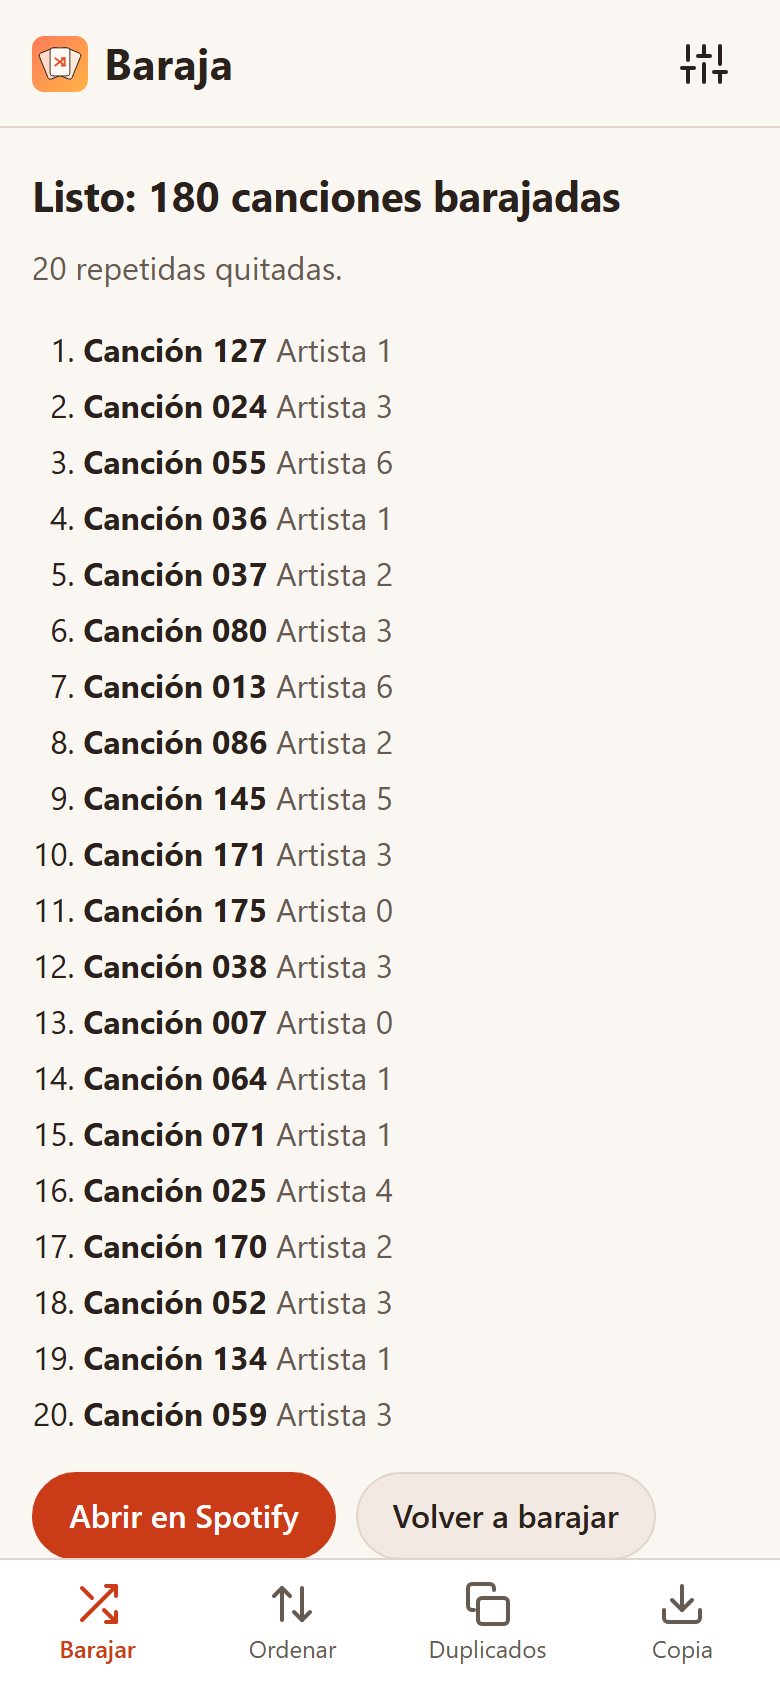
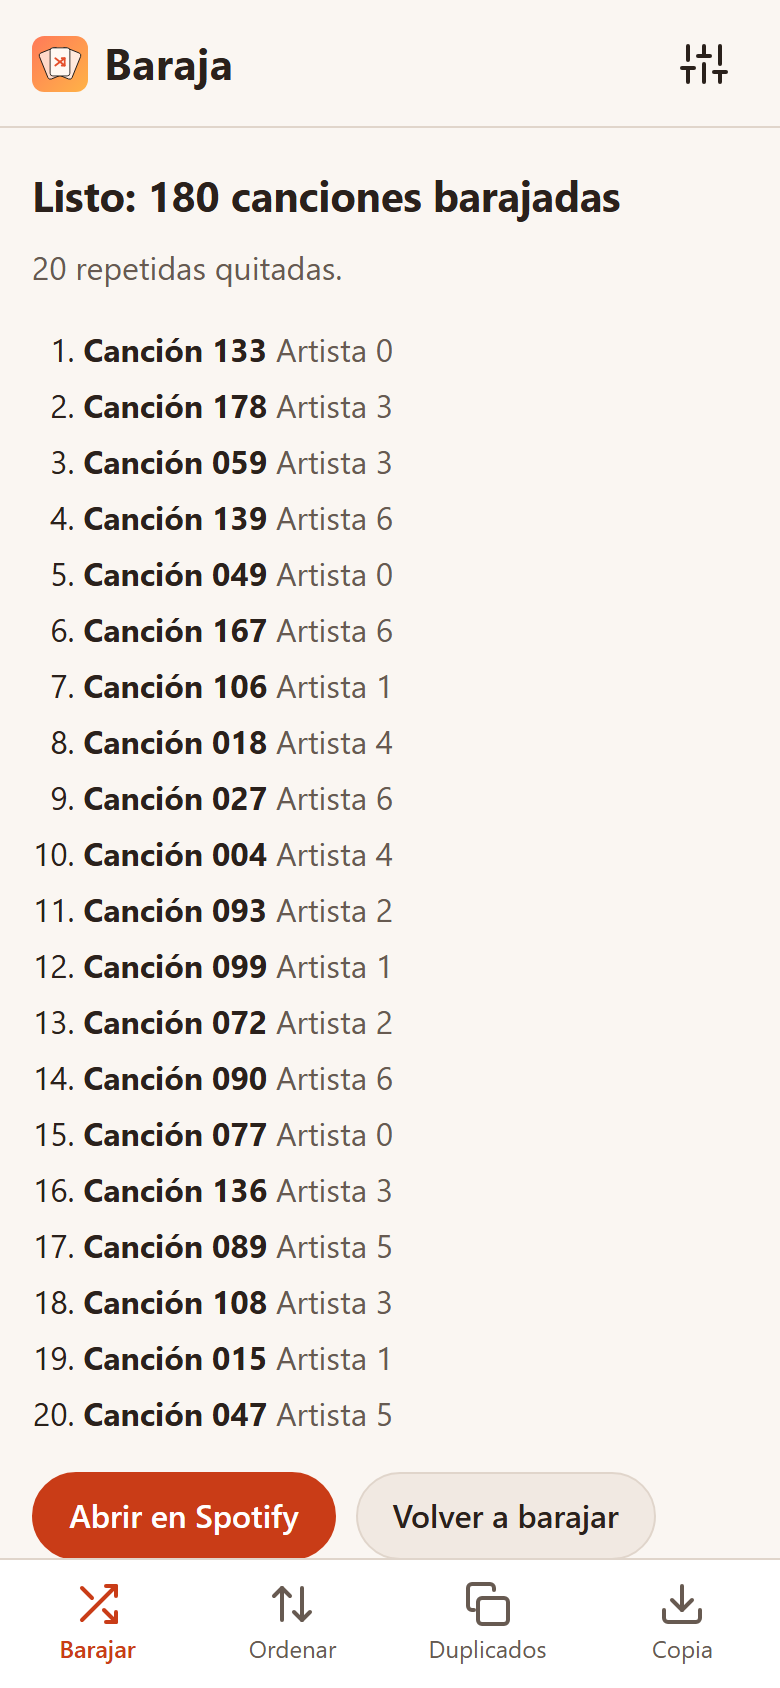
fix: revisión de seguridad ronda 2 (escrituras a medias, Deshacer, importación)
Reintentar tras una escritura a medias pisaba el Deshacer del original y
perdía canciones; ahora el Deshacer queda pendiente hasta que la escritura
termina y se rechaza un nuevo guardado sobre esa playlist. Además: abortar si
localStorage no guarda el Deshacer, comprobar que la playlist no cambió antes
de deshacer o escribir (primera página, no solo el total), límites al importar
(20 MB, URI de 22 caracteres, 200 playlists), no duplicar al reintentar una
restauración y no mostrar sesión caducada si otra pestaña rotó el token.

diff --git a/js/app.js b/js/app.js
@@ -1,6 +1,6 @@
 import {
   LIKED_ID, shuffle, uniqueByUri, capPlaylist, normalizeEntries, normalizePlaylist, sortTracks, SORT_KEYS,
-  filterByAdded, findDuplicates, removeIndexes, buildBackup, toCsv, validateBackup,
+  filterByAdded, findDuplicates, removeIndexes, buildBackup, toCsv, validateBackup, MAX_BACKUP_BYTES,
 } from './core.js';
 import { SpotifyApi, ApiError } from './api.js';
 import * as auth from './auth.js';
@@ -167,13 +167,31 @@ const skippedCount = (s) => s.local + s.empty;
 
 /** Con `soft` no pisa un Deshacer ya guardado (así no se pierde el estado original). */
 function saveUndo(playlistId, name, uris, { soft = false } = {}) {
-  if (soft && getItem(KEYS.undo)) return;
-  setItem(KEYS.undo, { playlistId, name, uris, date: new Date().toISOString() });
+  const prev = getItem(KEYS.undo);
+  if (soft && prev) return;
+  if (prev?.pending && prev.playlistId === playlistId) throw new UserError(t('errPending'));
+  const entry = { playlistId, name, uris, pending: true, date: new Date().toISOString() };
+  if (!setItem(KEYS.undo, entry, { strict: true })) throw new UserError(t('errUndoStorage'));
 }
 
-async function assertUnchanged(playlistId, expectedTotal) {
-  const { total } = await S.api.request('GET', `/playlists/${encodeURIComponent(playlistId)}/items?limit=1`);
-  if (total !== expectedTotal) throw new UserError(t('errChanged'));
+/** Marca el Deshacer como seguro de aplicar: la escritura terminó y la playlist tiene `count` elementos. */
+function finishUndo(playlistId, count) {
+  const u = getItem(KEYS.undo);
+  if (u?.playlistId === playlistId) setItem(KEYS.undo, { ...u, pending: false, after: count });
+}
+
+async function overwritePlaylist(id, uris, status) {
+  await S.api.replaceItems(id, uris, (d, tot) => status.progress('saving', d, tot));
+  finishUndo(id, uris.length);
+}
+
+/** Comprueba el total y la primera página (si se pasa `expected`) antes de escribir con datos leídos antes. */
+async function assertUnchanged(playlistId, expectedTotal, expected) {
+  const page = await S.api.request('GET', `/playlists/${encodeURIComponent(playlistId)}/items?limit=50&additional_types=track,episode`);
+  if (page.total !== expectedTotal) throw new UserError(t('errChanged'));
+  if (!expected || !Array.isArray(page.items)) return;
+  const head = normalizeEntries(page.items).tracks;
+  if (head.some((x, i) => x.uri !== expected[i]?.uri)) throw new UserError(t('errChanged'));
 }
 
 function confirmOverwrite(name, skipped) {
@@ -185,6 +203,7 @@ async function applyUndo(status, expectedId) {
   const u = getItem(KEYS.undo);
   if (!u) return false;
   if (expectedId && u.playlistId !== expectedId) throw new UserError(t('errUndoOther'));
+  if (!u.pending && Number.isInteger(u.after)) await assertUnchanged(u.playlistId, u.after);
   if (!confirm(t('confirmUndo', { name: u.name || u.playlistId, date: new Date(u.date).toLocaleString(getLang()) }))) return false;
   await S.api.replaceItems(u.playlistId, u.uris, (d, tot) => status.progress('saving', d, tot));
   removeItem(KEYS.undo);
@@ -349,7 +368,7 @@ function shufflePanel() {
       if (!base.length) throw new UserError(t('errEmpty'));
       const { tracks: order, truncated } = capPlaylist(shuffle(base));
       const playlistId = await resolveTarget(mode, sel, tracks);
-      await S.api.replaceItems(playlistId, order.map((x) => x.uri), (d, tot) => status.progress('saving', d, tot));
+      await overwritePlaylist(playlistId, order.map((x) => x.uri), status);
       await loadPlaylists();
       status.clear();
       showResult({ base, order, skipped, truncated, dedupRemoved: tracks.length - base.length, playlistId });
@@ -359,9 +378,9 @@ function shufflePanel() {
   function reshuffle() {
     task(status, async () => {
       const { tracks: order, truncated } = capPlaylist(shuffle(last.base));
-      await assertUnchanged(last.playlistId, last.order.length);
+      await assertUnchanged(last.playlistId, last.order.length, last.order);
       saveUndo(last.playlistId, '', last.order.map((x) => x.uri), { soft: true });
-      await S.api.replaceItems(last.playlistId, order.map((x) => x.uri), (d, tot) => status.progress('saving', d, tot));
+      await overwritePlaylist(last.playlistId, order.map((x) => x.uri), status);
       status.clear();
       showResult({ ...last, order, truncated });
     });
@@ -435,7 +454,7 @@ function sortPanel() {
       if (overwrite) {
         saveUndo(sel.id, sel.name, tracks.map((x) => x.uri));
         playlistId = sel.id;
-        await S.api.replaceItems(playlistId, sorted.map((x) => x.uri), (d, tot) => status.progress('saving', d, tot));
+        await overwritePlaylist(playlistId, sorted.map((x) => x.uri), status);
       } else {
         playlistId = (await S.api.createPlaylist(nameIn.value.trim() || sel.name, t('barajaDesc'))).id;
         await S.api.addItems(playlistId, sorted.map((x) => x.uri), (d, tot) => status.progress('saving', d, tot));
@@ -532,10 +551,10 @@ function dupsPanel() {
     function remove() {
       if (!confirmOverwrite(pl.name, skippedCount(skipped))) return;
       task(status, async () => {
-        await assertUnchanged(pl.id, tracks.length + skippedCount(skipped));
+        await assertUnchanged(pl.id, tracks.length + skippedCount(skipped), tracks);
         const remaining = removeIndexes(tracks, chosen());
         saveUndo(pl.id, pl.name, tracks.map((x) => x.uri));
-        await S.api.replaceItems(pl.id, remaining.map((x) => x.uri), (d, tot) => status.progress('saving', d, tot));
+        await overwritePlaylist(pl.id, remaining.map((x) => x.uri), status);
         await loadPlaylists();
         status.clear();
         finishWith(t('dupsRemoved', { n: fmt(tracks.length - remaining.length) }), remaining, pl.id);
@@ -628,10 +647,11 @@ function backupPanel() {
     const file = fileIn.files[0];
     if (!file) return;
     try {
+      if (file.size > MAX_BACKUP_BYTES) throw new UserError(t('errBackupSize'));
       const playlists = validateBackup(JSON.parse(await file.text()));
       showRestore(playlists);
     } catch (e) {
-      status.fail(e instanceof SyntaxError ? new UserError(t('restoreBad_notBackup')) : new UserError(t(`restoreBad_${e.code ?? 'notBackup'}`)));
+      status.fail(e instanceof UserError ? e : e instanceof SyntaxError ? new UserError(t('restoreBad_notBackup')) : new UserError(t(`restoreBad_${e.code ?? 'notBackup'}`)));
     }
   }
 
@@ -657,6 +677,8 @@ function backupPanel() {
           const id = (await S.api.createPlaylist(`${p.name} (${t('restoredSuffix')})`, t('barajaDesc'))).id;
           await S.api.addItems(id, p.tracks.map((x) => x.uri), (d, tot) => status.progress('saving', d, tot));
           n++;
+          box.checked = false;
+          box.disabled = true;
         }
         await loadPlaylists();
         status.clear();

diff --git a/tests/unit/core.test.js b/tests/unit/core.test.js
@@ -1,7 +1,7 @@
 import { test } from 'node:test';
 import assert from 'node:assert/strict';
 import {
-  randomInt, shuffle, chunk, uniqueByUri, capPlaylist, MAX_PLAYLIST, parseReleaseDate, sortTracks, SORT_KEYS,
+  randomInt, shuffle, chunk, uniqueByUri, capPlaylist, MAX_PLAYLIST, MAX_BACKUP_PLAYLISTS,parseReleaseDate, sortTracks, SORT_KEYS,
   filterByAdded, normalizeTitle, findDuplicates, removeIndexes, normalizeEntry, normalizeEntries, normalizePlaylist,
   buildBackup, toCsv, validateBackup,
 } from '../../js/core.js';
@@ -219,19 +219,28 @@ test('normalizePlaylist: items.total y tracks.total, propiedad y colaborativas',
 });
 
 test('backup: construir, validar, CSV y rechazo de archivos malos', () => {
-  const lists = [{ id: 'p', name: 'Mi "lista"', isLiked: false, tracks: [tr({ uri: 'spotify:track:abc', name: '=cmd()', artists: ['A', 'B'] })] }];
+  const ID22 = '4uLU6hMCjMI75M1A2tKUQC';
+  const lists = [{ id: 'p', name: 'Mi "lista"', isLiked: false, tracks: [tr({ uri: `spotify:track:${ID22}`, name: '=cmd()', artists: ['A', 'B'] })] }];
   const b = buildBackup(lists, new Date('2026-01-01T00:00:00Z'));
   assert.equal(b.app, 'baraja');
   assert.equal(b.version, 1);
   assert.equal(b.exportedAt, '2026-01-01T00:00:00.000Z');
   const back = validateBackup(JSON.parse(JSON.stringify(b)));
-  assert.equal(back[0].tracks[0].uri, 'spotify:track:abc');
+  assert.equal(back[0].tracks[0].uri, `spotify:track:${ID22}`);
   const csv = toCsv(lists);
   assert.match(csv, /"Mi ""lista"""/);
   assert.match(csv, /'=cmd\(\)/);
   assert.match(csv, /"A, B"/);
   assert.match(toCsv([{ name: 'p', tracks: [tr({ name: 'x;=1+1' })] }]), /"x;=1\+1"/);
-  assert.throws(() => validateBackup({ app: 'baraja', version: 1, playlists: [{ name: 'x', tracks: Array.from({ length: MAX_PLAYLIST + 1 }, () => ({ uri: 'spotify:track:a' })) }] }), { code: 'tooBig' });
+  assert.throws(() => validateBackup({ app: 'baraja', version: 1, playlists: [{ name: 'x', tracks: Array.from({ length: MAX_PLAYLIST + 1 }, () => ({ uri: `spotify:track:${ID22}` })) }] }), { code: 'tooBig' });
+  const many = Array.from({ length: MAX_BACKUP_PLAYLISTS + 1 }, () => ({ name: 'x', tracks: [] }));
+  assert.throws(() => validateBackup({ app: 'baraja', version: 1, playlists: many }), { code: 'tooBig' });
+  for (const uri of [`spotify:track:${'a'.repeat(1_000_000)}`, 'spotify:track:abc', `spotify:track:${ID22}\n`]) {
+    assert.throws(() => validateBackup({ app: 'baraja', version: 1, playlists: [{ name: 'x', tracks: [{ uri }] }] }), { code: 'badTrack' });
+  }
+  const proto = validateBackup(JSON.parse(`{"app":"baraja","version":1,"playlists":[{"name":"x","__proto__":{"polluted":1},"tracks":[]}]}`));
+  assert.equal(({}).polluted, undefined);
+  assert.equal(proto[0].polluted, undefined);
   for (const bad of [null, {}, { app: 'otra', version: 1, playlists: [] }, { app: 'baraja', version: 1, playlists: 'x' }]) {
     assert.throws(() => validateBackup(bad), { code: 'notBackup' });
   }

diff --git a/js/i18n.js b/js/i18n.js
@@ -25,9 +25,12 @@ const es = {
   errIncomplete: 'Spotify ha devuelto la lista incompleta o ha cambiado mientras se leía. No se ha modificado nada; inténtalo de nuevo.',
   errChanged: 'La playlist ha cambiado en Spotify desde que se leyó. No se ha modificado nada; vuelve a empezar.',
   errUndoOther: 'El Deshacer guardado es de otra playlist. Usa el de Ajustes.',
+  errPending: 'La última escritura en esta playlist no terminó y puede estar incompleta. Usa Deshacer (en Ajustes) para recuperar el original antes de volver a escribir.',
+  errUndoStorage: 'No se puede guardar el Deshacer en este navegador (almacenamiento lleno o bloqueado). No se ha modificado nada.',
+  errBackupSize: 'El archivo es demasiado grande para ser una copia de Baraja.',
   confirmUndo: 'Se restaurará «{name}» al estado guardado el {date}. Los cambios posteriores en esa playlist se perderán.',
   confirmLost: 'Se perderán {n} elementos omitidos (archivos locales o no disponibles).',
-  restoreBad_tooBig: 'Una playlist de la copia supera las 10.000 canciones.',
+  restoreBad_tooBig: 'La copia supera los límites (más de 200 playlists o una con más de 10.000 canciones).',
   authErr_noClientId: 'Falta el Client ID.',
   authErr_denied: 'Has cancelado el acceso en Spotify.',
   authErr_badState: 'La respuesta de Spotify no coincide con tu petición. Vuelve a intentarlo.',
@@ -134,10 +137,13 @@ const en = {
   errGeneric: 'Something went wrong',
   errIncomplete: 'Spotify returned an incomplete list, or it changed while being read. Nothing was modified; try again.',
   errChanged: 'The playlist changed on Spotify since it was read. Nothing was modified; start again.',
+  errPending: 'The last write to this playlist did not finish and it may be incomplete. Use Undo (in Settings) to recover the original before writing again.',
+  errUndoStorage: 'Undo cannot be saved in this browser (storage full or blocked). Nothing was modified.',
+  errBackupSize: 'The file is too large to be a Baraja backup.',
   errUndoOther: 'The saved Undo belongs to another playlist. Use the one in Settings.',
   confirmUndo: '“{name}” will be restored to the state saved on {date}. Later changes to that playlist will be lost.',
   confirmLost: '{n} skipped items (local files or unavailable) will be lost.',
-  restoreBad_tooBig: 'A playlist in the backup exceeds 10,000 songs.',
+  restoreBad_tooBig: 'The backup exceeds the limits (over 200 playlists or one with over 10,000 songs).',
   authErr_noClientId: 'The Client ID is missing.',
   authErr_denied: 'You cancelled the access in Spotify.',
   authErr_badState: 'Spotify’s response does not match your request. Try again.',

diff --git a/tests/unit/auth.test.js b/tests/unit/auth.test.js
@@ -1,0 +1,41 @@
+import { test } from 'node:test';
+import assert from 'node:assert/strict';
+
+const store = new Map();
+globalThis.localStorage = {
+  getItem: (k) => (store.has(k) ? store.get(k) : null),
+  setItem: (k, v) => store.set(k, String(v)),
+  removeItem: (k) => store.delete(k),
+};
+
+const { refresh } = await import('../../js/auth.js');
+const { KEYS, getItem, setItem } = await import('../../js/storage.js');
+
+const invalidGrant = () => ({ ok: false, json: async () => ({ error: 'invalid_grant' }) });
+
+test('refresh: invalid_grant con el mismo refresh_token cierra la sesión', async () => {
+  setItem(KEYS.tokens, { access_token: 'a', refresh_token: 'r1', expires_at: 0 });
+  globalThis.fetch = async () => invalidGrant();
+  await assert.rejects(() => refresh(), { code: 'invalid_grant' });
+  assert.equal(getItem(KEYS.tokens), null);
+});
+
+test('refresh: si otra pestaña ya rotó el token, no falla ni cierra la sesión', async () => {
+  setItem(KEYS.tokens, { access_token: 'a', refresh_token: 'r1', expires_at: 0 });
+  globalThis.fetch = async () => {
+    setItem(KEYS.tokens, { access_token: 'b', refresh_token: 'r2', expires_at: Date.now() + 3600000 });
+    return invalidGrant();
+  };
+  await refresh();
+  assert.equal(getItem(KEYS.tokens).refresh_token, 'r2');
+});
+
+test('storage: setItem estricto no usa la memoria cuando localStorage falla', async () => {
+  const saved = globalThis.localStorage;
+  globalThis.localStorage = { getItem: () => null, setItem: () => { throw new Error('quota'); }, removeItem: () => {} };
+  assert.equal(setItem('k1', { a: 1 }, { strict: true }), false);
+  assert.equal(getItem('k1'), null);
+  assert.equal(setItem('k2', { a: 2 }), false);
+  assert.deepEqual(getItem('k2'), { a: 2 });
+  globalThis.localStorage = saved;
+});

diff --git a/js/core.js b/js/core.js
@@ -1,6 +1,8 @@
 // Lógica pura de Baraja: sin DOM ni red, para poder probarla con node --test.
 
 export const MAX_PLAYLIST = 10000;
+export const MAX_BACKUP_PLAYLISTS = 200;
+export const MAX_BACKUP_BYTES = 20 * 1024 * 1024;
 export const LIKED_ID = '__liked__';
 
 const defaultRandomValues = (arr) => globalThis.crypto.getRandomValues(arr);
@@ -283,11 +285,12 @@ export function validateBackup(obj) {
   if (!obj || typeof obj !== 'object' || obj.app !== 'baraja') throw fail('notBackup');
   if (obj.version !== 1) throw fail('badVersion');
   if (!Array.isArray(obj.playlists)) throw fail('notBackup');
+  if (obj.playlists.length > MAX_BACKUP_PLAYLISTS) throw fail('tooBig');
   return obj.playlists.map((p, i) => {
     if (!p || typeof p.name !== 'string' || !Array.isArray(p.tracks)) throw fail('notBackup');
     if (p.tracks.length > MAX_PLAYLIST) throw fail('tooBig');
     const tracks = p.tracks.map((t) => {
-      if (!t || typeof t.uri !== 'string' || !/^spotify:(track|episode):[A-Za-z0-9]+$/.test(t.uri)) throw fail('badTrack');
+      if (!t || typeof t.uri !== 'string' || !/^spotify:(track|episode):[A-Za-z0-9]{22}$/.test(t.uri)) throw fail('badTrack');
       return {
         uri: t.uri,
         name: String(t.name ?? ''),

diff --git a/js/auth.js b/js/auth.js
@@ -106,7 +106,9 @@ export function refresh() {
     try {
       storeTokens(await tokenRequest({ grant_type: 'refresh_token', refresh_token: tokens.refresh_token }), tokens);
     } catch (e) {
-      if (e.code === 'invalid_grant' && getItem(KEYS.tokens)?.refresh_token === tokens.refresh_token) logout();
+      const current = getItem(KEYS.tokens)?.refresh_token;
+      if (e.code === 'invalid_grant' && current && current !== tokens.refresh_token) return;
+      if (e.code === 'invalid_grant' && current === tokens.refresh_token) logout();
       throw e;
     }
   })().finally(() => { refreshing = null; });

diff --git a/js/storage.js b/js/storage.js
@@ -11,12 +11,15 @@ export function getItem(key, fallback = null) {
   }
 }
 
-export function setItem(key, value) {
+/** Devuelve si quedó guardado en localStorage. Con `strict` no se usa la memoria de respaldo. */
+export function setItem(key, value, { strict = false } = {}) {
   try {
     localStorage.setItem(key, JSON.stringify(value));
     memory.delete(key);
+    return true;
   } catch {
-    memory.set(key, value);
+    if (!strict) memory.set(key, value);
+    return false;
   }
 }
 

diff --git a/sw.js b/sw.js
@@ -1,5 +1,5 @@
 // Cache-first solo para los archivos de la app. Nunca toca otros orígenes (api/accounts de Spotify).
-const CACHE = 'baraja-v1';
+const CACHE = 'baraja-v2';
 const SHELL = [
   './', 'index.html', 'manifest.webmanifest', 'css/styles.css',
   'js/app.js', 'js/api.js', 'js/auth.js', 'js/config.js', 'js/core.js', 'js/i18n.js', 'js/storage.js',

diff --git a/DECISIONES.md b/DECISIONES.md
@@ -24,7 +24,7 @@ Trabajo hecho sin supervisión el 2026-11-23. Todo lo reversible lo decidí yo; 
 - **Cero dependencias de runtime**; única devDependency, `@playwright/test` (pedida en el enunciado).
 - **`node --test "tests/unit/*.test.js"`**: en Node 24, `node --test carpeta/` no funciona.
 - **Playlists leídas con `limit=50`** (el máximo actual de `/items`) y escrituras de 100 en 100.
-- **Service worker**: cache-first para recursos propios, network-first para la navegación, caché versionada (`baraja-v1`; hay que subirla al cambiar archivos, ver CONTRIBUTING). Nunca toca otros orígenes.
+- **Service worker**: cache-first para recursos propios, network-first para la navegación, caché versionada (`baraja-v2`; hay que subirla al cambiar archivos, ver CONTRIBUTING). Nunca toca otros orígenes.
 - **Tests e2e con el service worker bloqueado** para que no interfiera con `page.route`.
 - **Licencia MIT a nombre de "Juan del Mazo"** (nombre del perfil de GitHub).
 - **Iconos** generados con `scripts/make-icons.mjs` (Chromium de Playwright renderiza el SVG a PNG).

diff --git a/SIGUIENTES_PASOS.md b/SIGUIENTES_PASOS.md
@@ -3,12 +3,12 @@
 ## 1. Qué hay hecho
 - Baraja v1.0.0 completa: barajar (varias playlists + Tus me gusta, destino «🔀 Baraja», nueva o la propia con Deshacer), ordenar (con atajo para copiar Tus me gusta y filtro por fecha), duplicados (exacto/inteligente), copia JSON/CSV y restaurar, Deshacer, es/en, PWA.
 - Investigación en `INVESTIGACION.md`; decisiones en `DECISIONES.md`; ideas futuras en `ROADMAP.md`.
-- 39 tests unitarios y 12 e2e en verde. Capturas en `docs/capturas/`.
+- 42 tests unitarios y 16 e2e en verde. Capturas en `docs/capturas/`.
 - Repo privado `new-spoti` con la rama `feat/v1-baraja` (sin merge: ver `docs/bandeja.md`).
 
 **Pendiente / no verificado**
 - Nunca se ha probado contra la API real de Spotify (solo simulada).
-- Segunda ronda de revisión de seguridad sin hacer.
+- Segunda ronda de revisión hecha (2026-11-24); una tercera sobre los cambios nuevos queda sin hacer.
 - Las cifras de votos de `INVESTIGACION.md` son de resúmenes de búsqueda; Reddit, App Store y Google Play no se pudieron leer.
 
 ## 2. Probar en el PC hoy

diff --git a/docs/registro/2026-11-24-revision-ronda-2.md b/docs/registro/2026-11-24-revision-ronda-2.md
@@ -1,0 +1,14 @@
+# 2026-11-24 Revisión de seguridad, ronda 2
+
+Sin hallazgos en tokens, PKCE (state de un solo uso), XSS (sin innerHTML) ni service worker.
+
+Corregido:
+- Crítico: reintentar tras una escritura a medias pisaba el Deshacer del original. Ahora el Deshacer se marca `pending` hasta que termina la escritura y un nuevo guardado sobre esa playlist se rechaza.
+- Importante: si localStorage no puede guardar el Deshacer, la operación se aborta (antes seguía solo con memoria).
+- Deshacer comprueba que la playlist no cambió desde la operación (`after`).
+- `assertUnchanged` compara también la primera página, no solo el total.
+- Importación: tope de 20 MB antes de leer, URIs de 22 caracteres, máximo 200 playlists.
+- Restaurar: las casillas de las playlists ya creadas se desmarcan, así un reintento no las duplica.
+- Refresh: si otra pestaña ya rotó el token, no se muestra error de sesión caducada.
+
+Tests: 42 unitarios y 16 e2e. Caché del service worker subida a `baraja-v2`.
